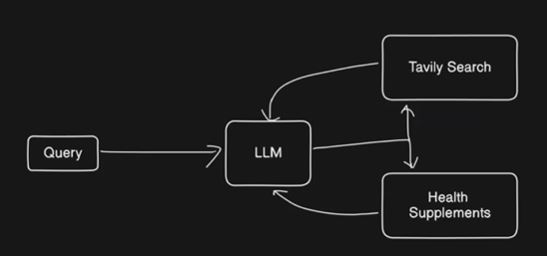
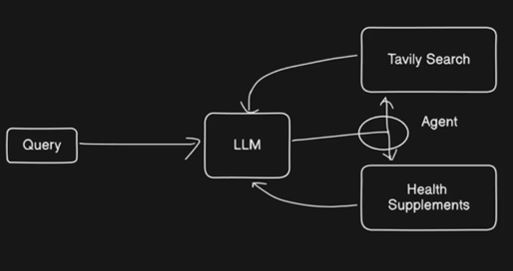
agent

Changed region(s): [[0.0, 0.0938, 0.9981, 0.9375], [0.5302, 0.7812, 0.5614, 0.8125]]

diff --git a/07.AgenticRAG/3.Agent.py b/07.AgenticRAG/3.Agent.py
@@ -32,7 +32,8 @@ prompt = hub.pull("hwchase17/openai-functions-agent")
 tools = [search, health_supplements]
 agent = create_tool_calling_agent(llm, tools, prompt)
 agent_executor = AgentExecutor(agent=agent, tools=tools, verbose=True)
-#question = "What is the best supplement for muscle gain?"
+question = "What is the best supplement for muscle gain?"
 #question = "what's weather in New York?"
-question = "What are the side effects of taking too much vitamin D?"
+#question = "What are the side effects of taking too much vitamin D?"
 response = agent_executor.invoke({'input': question})
+print("responseeeeeeeeeeeeeeeeeeeeee!!! ",response)

diff --git a/07.AgenticRAG/README.md b/07.AgenticRAG/README.md
@@ -259,16 +259,23 @@ agent_executor = AgentExecutor(agent=agent, tools=tools, verbose=True)
 - You define a question about the side effects of too much vitamin D and invoke the agent to get a response.
 ```python
 question = "What is the best supplement for muscle gain?"
-question = "what's weather in New York?"
-question = "What are the side effects of taking too much vitamin D?"
+#question = "what's weather in New York?"
+# = "What are the side effects of taking too much vitamin D?"
 response = agent_executor.invoke({'input': question})
 ```
 
 **Output:**
+- `health_supplements` is the tool
+-Reformulated the query
 ```sh
-Invoking: `health_supplements` with `{'query': 'side effects of taking too much vitamin D'}`
+Invoking: `health_supplements` with `{'query': 'muscle gain supplements'}`
 ```
+- These are the document which it has extracted from the database.
+![Alt text](assets/3.document_extracted.JPG)
 
+- Output from de LLM
+
+![alt text](3.output_llm.JPG)
 # 4⃣ Argentic RAG
 
 ## Overview
